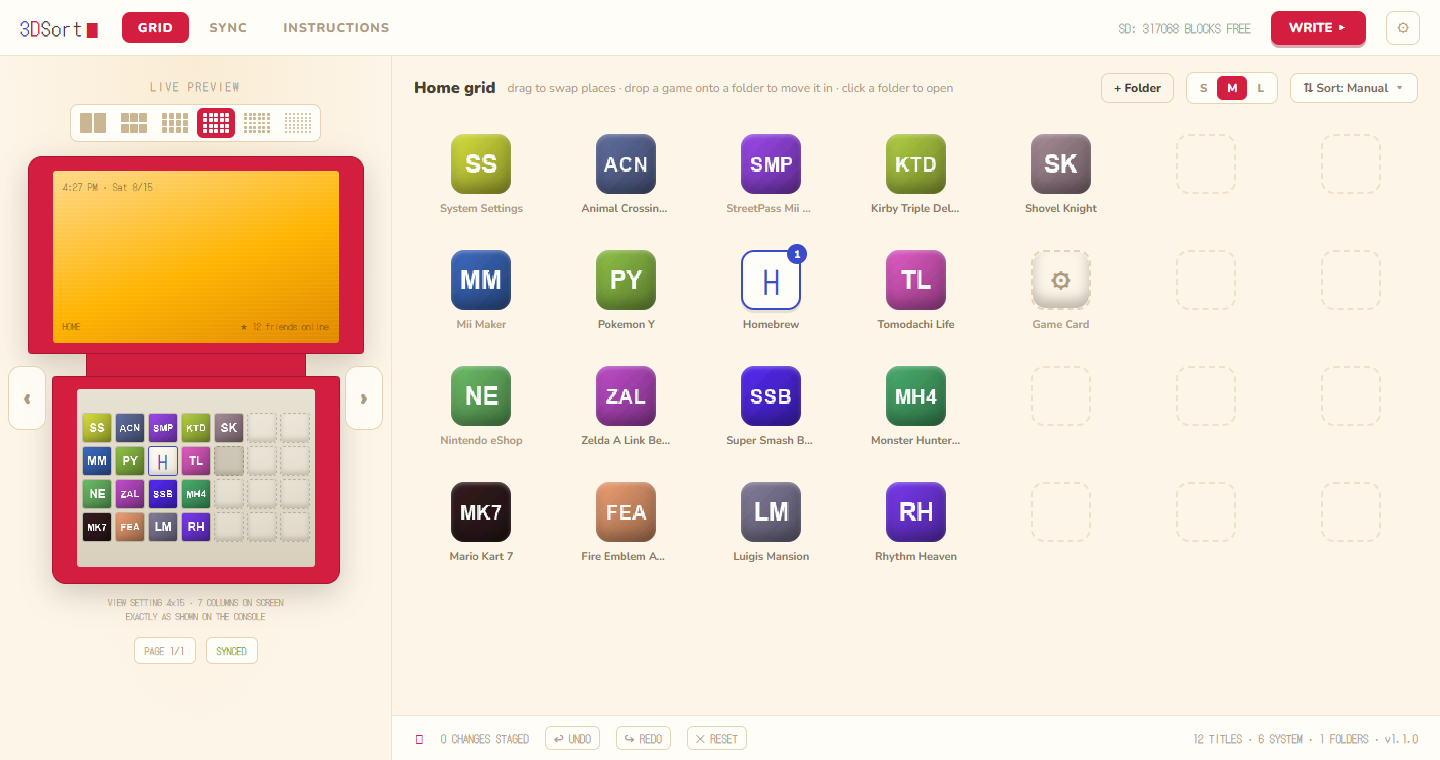
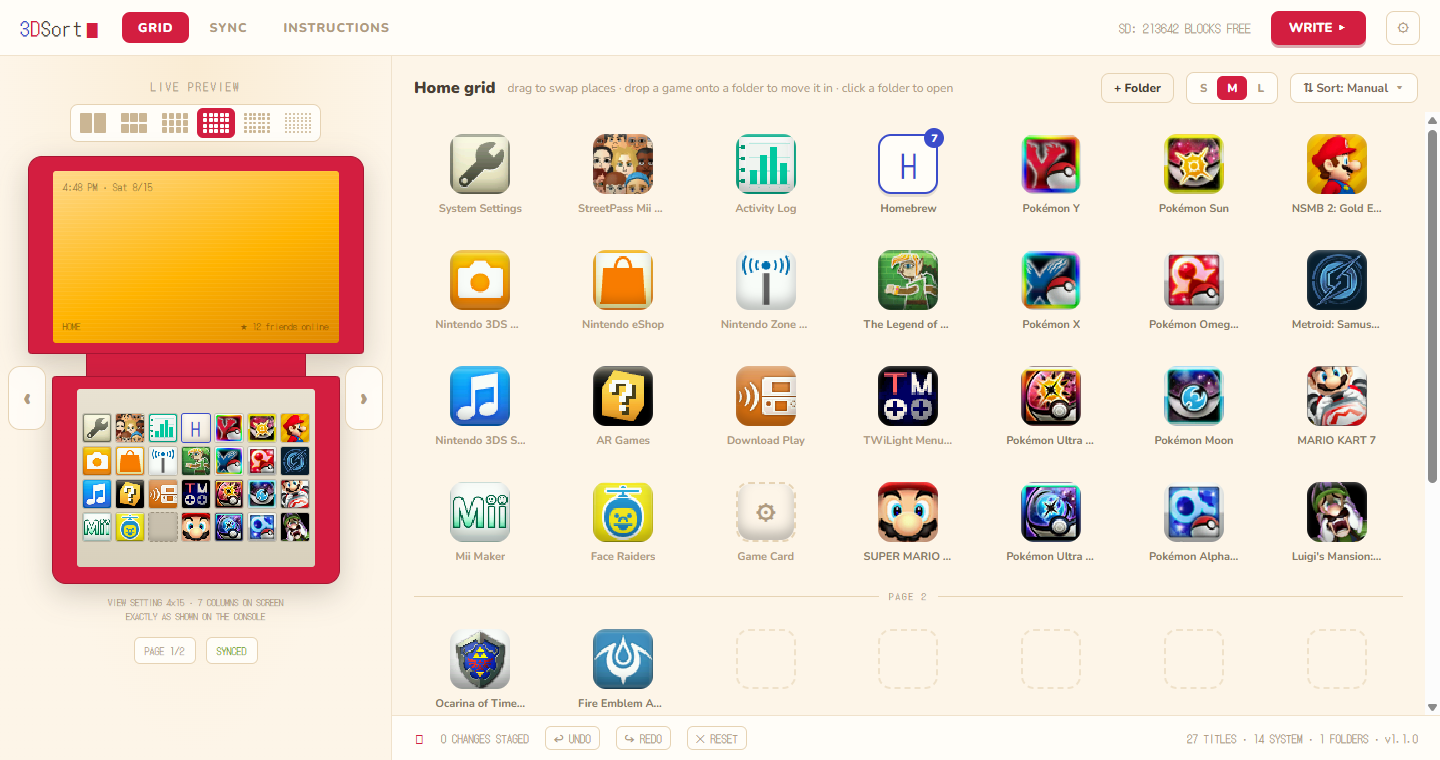
README: show the grid with a real console library
The synthetic demo icons are letter placeholders, which undersell what the app
does. The hero screenshot now comes from an actual SD card, so the grid shows
real game icons, the folder badge and the page break the console draws.

SYNC stays on demo data: the real backup history still carries pre-translation
Portuguese labels that would read oddly in an English README.

No console identifiers are visible in either image (checked for embedded
metadata too), and the SD card was only read: the guard test passes unchanged.

Claude-Session: https://claude.ai/code/session_01Dm7e87xRVjGz85NLHLnLec

diff --git a/README.md b/README.md
@@ -20,7 +20,7 @@ by page. 3DSort edits the layout directly on the SD card instead. Put the card
 in your computer, drag things around in a desktop app, check the live preview,
 then write the result back and boot the console.
 
-![The GRID tab: live console preview on the left, drag-and-drop grid on the right](docs/images/grid.png)
+![The GRID tab: live console preview on the left, drag-and-drop grid of real game icons on the right](docs/images/grid.png)
 
 > [!IMPORTANT]
 > Every write takes an automatic backup first, and nothing touches the card
@@ -169,8 +169,8 @@ end to end on real hardware. The app never writes without an automatic backup
 and an explicit confirmation. Still, it has only been exercised on one console
 so far, so keep your own backups.
 
-Screenshots on this page use the app's synthetic demo data, not a real console
-library.
+The grid screenshot shows a real console library read off an SD card. The other
+screenshots use the app's synthetic demo data.
 
 ## License
 
